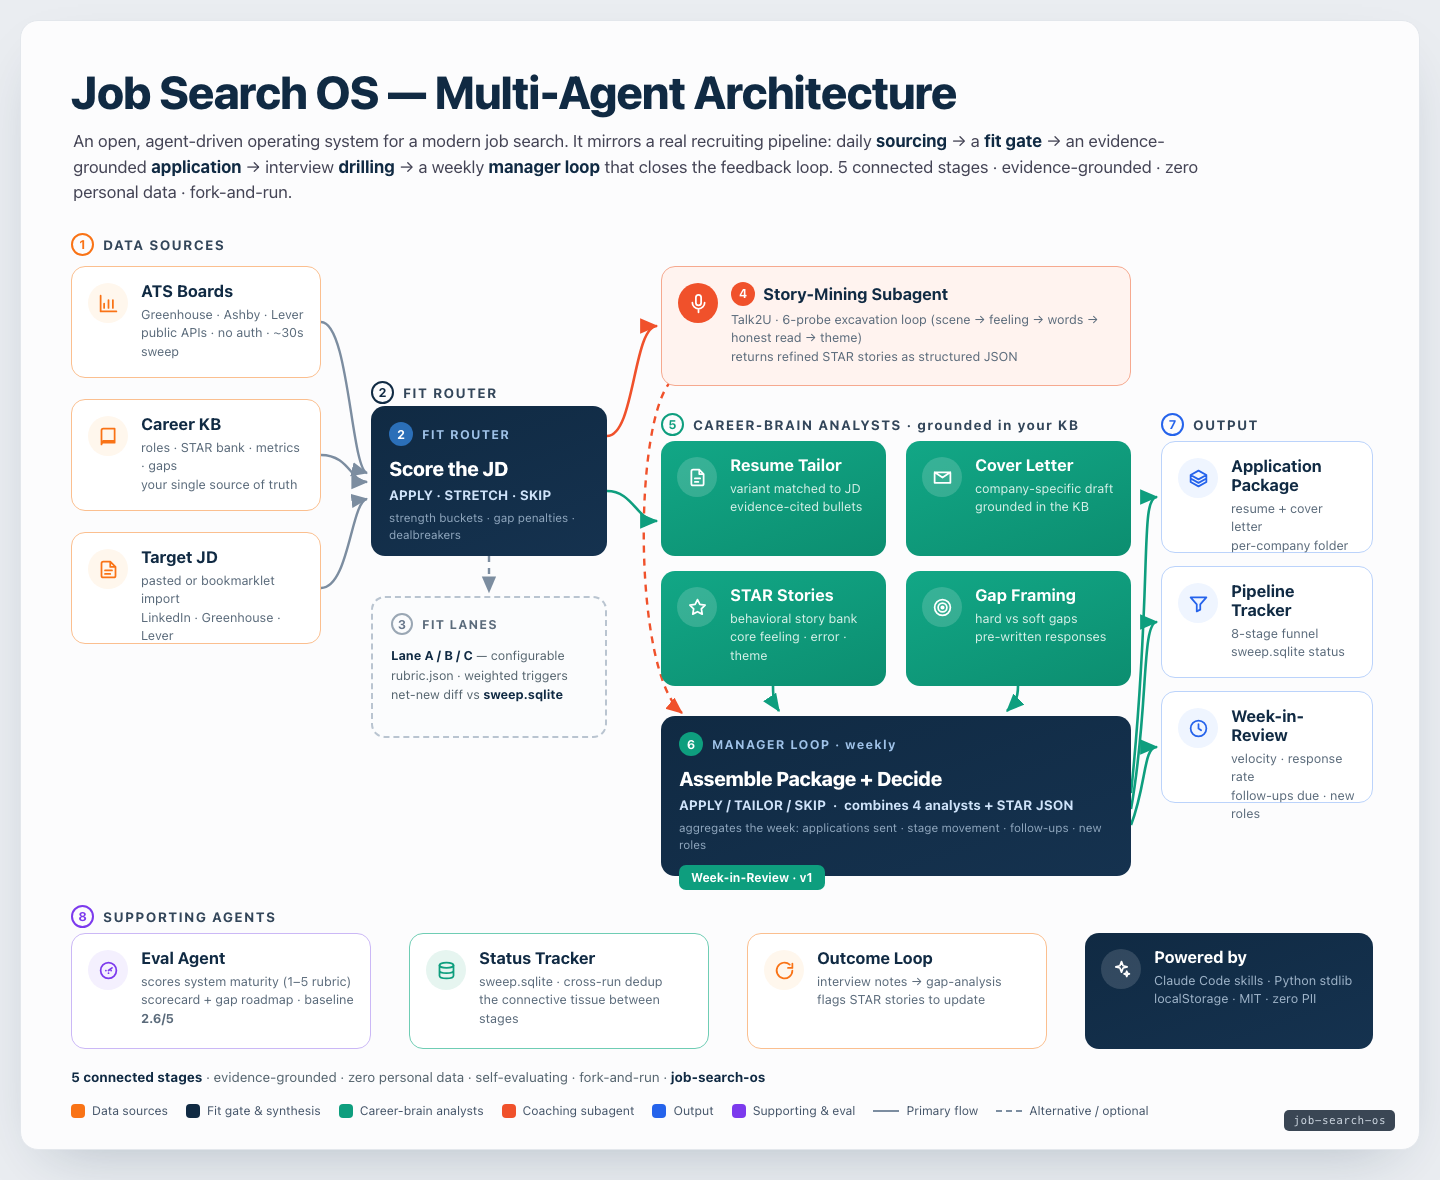
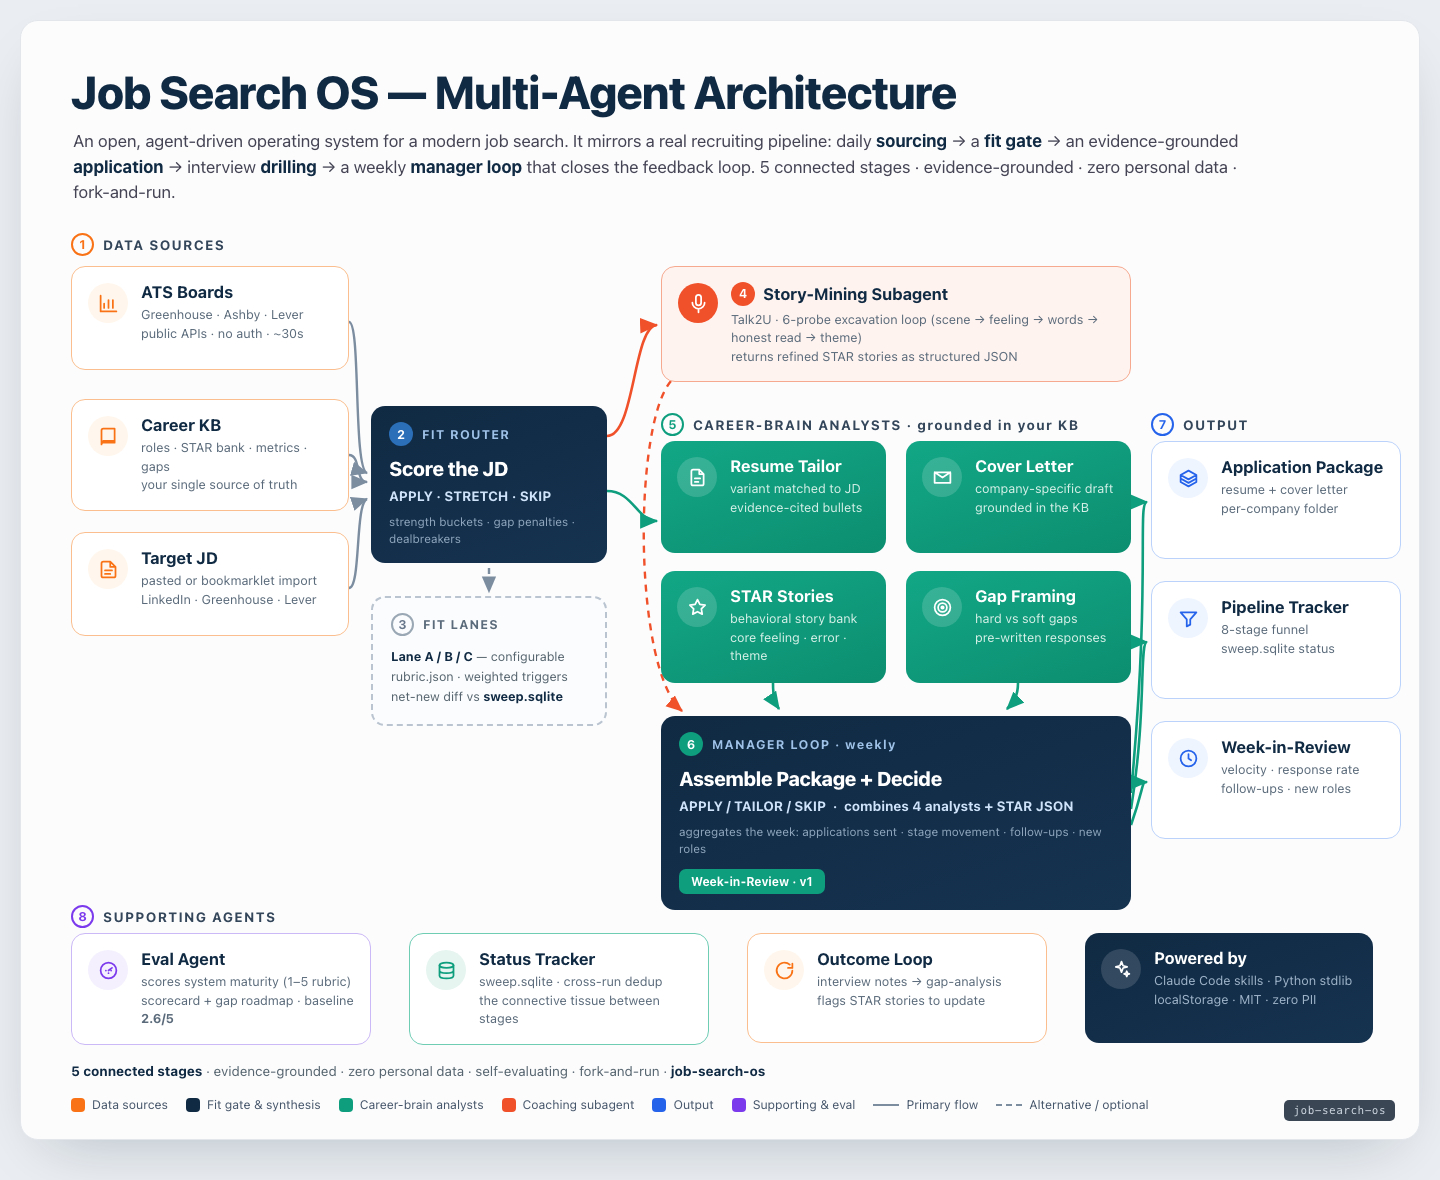
Fix infographic: min-height boxes (no text overflow), wider output column, dedupe router label

diff --git a/docs/architecture.html b/docs/architecture.html
@@ -17,29 +17,28 @@
   *{box-sizing:border-box;margin:0;padding:0}
   html,body{background:#EAEDF1;font-family:system-ui,-apple-system,"Segoe UI",Inter,Roboto,Helvetica,Arial,sans-serif;-webkit-font-smoothing:antialiased}
   .page{display:flex;justify-content:center;padding:20px 0 40px}
-  .stage{position:relative;width:1400px;height:1130px;background:#FCFCFD;border:1px solid #E3E7EC;border-radius:18px;
+  .stage{position:relative;width:1400px;height:1120px;background:#FCFCFD;border:1px solid #E3E7EC;border-radius:18px;
          box-shadow:0 24px 60px -28px rgba(16,42,67,.28);transform-origin:top center;overflow:hidden}
 
   /* header */
   .h-title{position:absolute;left:50px;top:44px;font-size:46px;font-weight:800;letter-spacing:-1px;color:var(--ink)}
-  .h-sub{position:absolute;left:52px;top:108px;width:1160px;font-size:17px;line-height:1.5;color:#445}
+  .h-sub{position:absolute;left:52px;top:108px;width:1180px;font-size:17px;line-height:1.5;color:#445}
   .h-sub b{color:var(--ink)}
 
   /* group labels */
   .glabel{position:absolute;font-size:13.5px;font-weight:700;letter-spacing:1.4px;color:#33465A;display:flex;align-items:center;gap:9px}
   .gn{display:inline-flex;align-items:center;justify-content:center;width:23px;height:23px;border-radius:50%;
-      border:2px solid;font-size:12.5px;font-weight:700;letter-spacing:0}
+      border:2px solid;font-size:12.5px;font-weight:700;letter-spacing:0;flex:0 0 auto}
   .gn.o{border-color:var(--orange);color:var(--orange)}
   .gn.n{border-color:var(--navy);color:var(--navy)}
   .gn.t{border-color:var(--teal);color:var(--teal)}
-  .gn.r{border-color:var(--red);color:var(--red)}
   .gn.b{border-color:var(--blue);color:var(--blue)}
   .gn.p{border-color:var(--purple);color:var(--purple)}
 
-  /* boxes */
+  /* boxes — min-height so text never clips the border */
   .box{position:absolute;border-radius:14px;z-index:3;padding:15px 16px;display:flex;gap:13px;align-items:flex-start}
-  .box h4{font-size:16.5px;font-weight:700;color:var(--ink);margin-bottom:5px;line-height:1.15}
-  .box p{font-size:12.7px;line-height:1.45;color:var(--muted)}
+  .box h4{font-size:16.5px;font-weight:700;color:var(--ink);margin-bottom:5px;line-height:1.18}
+  .box p{font-size:12.7px;line-height:1.45;color:var(--muted);overflow-wrap:break-word}
   .ic{flex:0 0 40px;width:40px;height:40px;border-radius:50%;display:flex;align-items:center;justify-content:center;margin-top:1px}
   .ic svg{width:21px;height:21px}
 
@@ -54,16 +53,15 @@
   .bnum{flex:0 0 24px;width:24px;height:24px;border-radius:50%;display:inline-flex;align-items:center;justify-content:center;font-size:12.5px;font-weight:700}
   .cmd .lbl{font-size:12.5px;font-weight:700;letter-spacing:1.3px;color:#9FC2E8}
   .cmd .big{font-size:20px;font-weight:800;margin-top:11px;letter-spacing:-.3px}
-  .cmd .verdict{font-size:13.5px;font-weight:700;color:#CFE3FA;margin-top:7px}
-  .cmd .fine{font-size:11.8px;color:#8FA6BD;margin-top:7px;line-height:1.4}
+  .cmd .verdict{font-size:13.5px;font-weight:700;color:#CFE3FA;margin-top:7px;line-height:1.4}
+  .cmd .fine{font-size:11.8px;color:#8FA6BD;margin-top:7px;line-height:1.45}
   .pill{display:inline-block;margin-top:12px;background:var(--teal);color:#fff;font-size:12px;font-weight:700;padding:5px 12px;border-radius:7px}
 
   /* lanes dashed */
   .lanes{background:#FBFCFD;border:2px dashed #B9C4D0;flex-direction:column;gap:0;padding:15px 18px}
   .lanes .row{display:flex;align-items:center;gap:9px}
   .lanes .lbl{font-size:12.5px;font-weight:700;letter-spacing:1.2px;color:#5B6B7B}
-  .lanes .gn{width:22px;height:22px}
-  .lanes p{font-size:12.6px;color:#56656F;line-height:1.55;margin-top:11px}
+  .lanes p{font-size:12.6px;color:#56656F;line-height:1.6;margin-top:11px}
   .lanes b{color:var(--ink)}
 
   /* story subagent (red) */
@@ -88,12 +86,12 @@
   .sup.power h4{color:#fff} .sup.power p{color:#9FB4C9}
 
   /* svg arrows */
-  .wires{position:absolute;inset:0;width:1400px;height:1130px;z-index:1;pointer-events:none}
+  .wires{position:absolute;inset:0;width:1400px;height:1120px;z-index:1;pointer-events:none}
 
   /* footer + legend */
-  .foot{position:absolute;left:50px;top:1048px;font-size:13.5px;color:#56656F}
+  .foot{position:absolute;left:50px;top:1042px;font-size:13.5px;color:#56656F}
   .foot b{color:var(--ink)}
-  .legend{position:absolute;left:50px;top:1082px;display:flex;align-items:center;gap:18px;flex-wrap:wrap;font-size:12.3px;color:#46566A}
+  .legend{position:absolute;left:50px;top:1076px;display:flex;align-items:center;gap:18px;flex-wrap:wrap;font-size:12.3px;color:#46566A}
   .legend .it{display:flex;align-items:center;gap:7px}
   .chip{width:14px;height:14px;border-radius:4px}
   .ln{width:26px;height:0;border-top:2.5px solid #7C8DA0}
@@ -111,7 +109,7 @@
     a weekly <b>manager loop</b> that closes the feedback loop. 5 connected stages · evidence-grounded · zero personal data · fork-and-run.</div>
 
   <!-- SVG wires (behind boxes) -->
-  <svg class="wires" viewBox="0 0 1400 1130" fill="none">
+  <svg class="wires" viewBox="0 0 1400 1120" fill="none">
     <defs>
       <marker id="hG" markerWidth="9" markerHeight="9" refX="6.5" refY="3" orient="auto"><path d="M0,0 L7,3 L0,6 Z" fill="#7C8DA0"/></marker>
       <marker id="hT" markerWidth="9" markerHeight="9" refX="6.5" refY="3" orient="auto"><path d="M0,0 L7,3 L0,6 Z" fill="#0E9E7E"/></marker>
@@ -119,52 +117,51 @@
     </defs>
     <g stroke="#7C8DA0" stroke-width="2.4">
       <!-- inputs -> router -->
-      <path d="M300,301 C328,301 330,448 346,452" marker-end="url(#hG)"/>
-      <path d="M300,434 C328,434 330,461 346,461" marker-end="url(#hG)"/>
-      <path d="M300,567 C328,567 330,480 346,478" marker-end="url(#hG)"/>
+      <path d="M328,301 C340,301 332,448 346,452" marker-end="url(#hG)"/>
+      <path d="M328,434 C340,434 334,461 346,461" marker-end="url(#hG)"/>
+      <path d="M328,567 C340,567 334,482 346,478" marker-end="url(#hG)"/>
       <!-- router -> lanes (dashed) -->
       <path d="M468,535 L468,571" stroke-dasharray="6 6" marker-end="url(#hG)"/>
     </g>
     <!-- router -> story subagent (orange) -->
-    <path d="M586,415 C614,415 612,305 636,305" stroke="#F0512B" stroke-width="2.6" marker-end="url(#hO)"/>
+    <path d="M586,415 C614,415 612,305 636,304" stroke="#F0512B" stroke-width="2.6" marker-end="url(#hO)"/>
     <!-- story subagent -> synthesizer (dashed orange, threads the gap) -->
-    <path d="M650,360 C612,402 612,652 661,692" stroke="#F0512B" stroke-width="2.4" stroke-dasharray="7 6" marker-end="url(#hO)"/>
+    <path d="M650,360 C612,404 612,648 661,690" stroke="#F0512B" stroke-width="2.4" stroke-dasharray="7 6" marker-end="url(#hO)"/>
     <g stroke="#0E9E7E" stroke-width="2.6">
       <!-- router -> analysts -->
       <path d="M586,470 C612,470 616,500 636,500" marker-end="url(#hT)"/>
       <!-- analysts -> synthesizer -->
-      <path d="M752,665 C752,680 754,684 758,690" marker-end="url(#hT)"/>
-      <path d="M997,665 C997,680 992,684 986,690" marker-end="url(#hT)"/>
+      <path d="M752,662 C752,676 754,682 758,688" marker-end="url(#hT)"/>
+      <path d="M997,662 C997,676 992,682 986,688" marker-end="url(#hT)"/>
       <!-- synthesizer -> outputs -->
-      <path d="M1110,772 C1132,560 1118,476 1136,476" marker-end="url(#hT)"/>
-      <path d="M1110,788 C1128,688 1120,601 1136,601" marker-end="url(#hT)"/>
-      <path d="M1110,804 C1126,762 1122,726 1136,726" marker-end="url(#hT)"/>
+      <path d="M1110,772 C1130,560 1116,481 1126,481" marker-end="url(#hT)"/>
+      <path d="M1110,788 C1126,690 1118,621 1126,621" marker-end="url(#hT)"/>
+      <path d="M1110,804 C1124,764 1120,761 1126,761" marker-end="url(#hT)"/>
     </g>
   </svg>
 
   <!-- ===== group labels ===== -->
   <div class="glabel" style="left:50px;top:212px"><span class="gn o">1</span> DATA SOURCES</div>
-  <div class="glabel" style="left:350px;top:360px"><span class="gn n">2</span> FIT ROUTER</div>
   <div class="glabel" style="left:640px;top:392px"><span class="gn t">5</span> CAREER-BRAIN ANALYSTS&nbsp;·&nbsp;grounded in your KB</div>
-  <div class="glabel" style="left:1140px;top:392px"><span class="gn b">7</span> OUTPUT</div>
+  <div class="glabel" style="left:1130px;top:392px"><span class="gn b">7</span> OUTPUT</div>
   <div class="glabel" style="left:50px;top:884px"><span class="gn p">8</span> SUPPORTING AGENTS</div>
 
   <!-- ===== 1 · INPUTS ===== -->
-  <div class="box src" style="left:50px;top:245px;width:250px;height:112px">
+  <div class="box src" style="left:50px;top:245px;width:278px;min-height:104px">
     <div class="ic"><svg viewBox="0 0 24 24" stroke="currentColor" stroke-width="2" fill="none" stroke-linecap="round"><path d="M3 21V3M3 21h18M7 17v-5M12 17V8M17 17v-9"/></svg></div>
-    <div><h4>ATS Boards</h4><p>Greenhouse · Ashby · Lever<br>public APIs · no auth · ~30s sweep</p></div>
+    <div><h4>ATS Boards</h4><p>Greenhouse · Ashby · Lever<br>public APIs · no auth · ~30s</p></div>
   </div>
-  <div class="box src" style="left:50px;top:378px;width:250px;height:112px">
+  <div class="box src" style="left:50px;top:378px;width:278px;min-height:104px">
     <div class="ic"><svg viewBox="0 0 24 24" stroke="currentColor" stroke-width="2" fill="none" stroke-linecap="round" stroke-linejoin="round"><path d="M4 5a2 2 0 012-2h13v16H6a2 2 0 00-2 2zM4 19a2 2 0 002-2h13"/></svg></div>
     <div><h4>Career KB</h4><p>roles · STAR bank · metrics · gaps<br>your single source of truth</p></div>
   </div>
-  <div class="box src" style="left:50px;top:511px;width:250px;height:112px">
+  <div class="box src" style="left:50px;top:511px;width:278px;min-height:104px">
     <div class="ic"><svg viewBox="0 0 24 24" stroke="currentColor" stroke-width="2" fill="none" stroke-linecap="round" stroke-linejoin="round"><path d="M14 3H6a2 2 0 00-2 2v14a2 2 0 002 2h12a2 2 0 002-2V9zM14 3v6h6M8 13h8M8 17h6"/></svg></div>
     <div><h4>Target JD</h4><p>pasted or bookmarklet import<br>LinkedIn · Greenhouse · Lever</p></div>
   </div>
 
   <!-- ===== 2 · FIT ROUTER ===== -->
-  <div class="box cmd" style="left:350px;top:385px;width:236px;height:150px">
+  <div class="box cmd" style="left:350px;top:385px;width:236px;min-height:150px">
     <div class="row"><span class="bnum" style="background:#2B6FB8;color:#fff">2</span><span class="lbl">FIT ROUTER</span></div>
     <div class="big">Score the JD</div>
     <div class="verdict">APPLY · STRETCH · SKIP</div>
@@ -172,37 +169,37 @@
   </div>
 
   <!-- ===== 3 · FIT LANES ===== -->
-  <div class="box lanes" style="left:350px;top:575px;width:236px;height:142px">
+  <div class="box lanes" style="left:350px;top:575px;width:236px;min-height:130px">
     <div class="row"><span class="gn n" style="border-color:#9aa7b4;color:#67768a">3</span><span class="lbl">FIT LANES</span></div>
     <p><b>Lane A / B / C</b> — configurable<br>rubric.json · weighted triggers<br>net-new diff vs <b>sweep.sqlite</b></p>
   </div>
 
   <!-- ===== 4 · STORY-MINING SUBAGENT ===== -->
-  <div class="box sub" style="left:640px;top:245px;width:470px;height:120px">
+  <div class="box sub" style="left:640px;top:245px;width:470px;min-height:116px">
     <div class="ic"><svg viewBox="0 0 24 24" stroke="currentColor" stroke-width="2" fill="none" stroke-linecap="round" stroke-linejoin="round"><path d="M12 2a3 3 0 00-3 3v6a3 3 0 006 0V5a3 3 0 00-3-3zM5 11a7 7 0 0014 0M12 18v4"/></svg></div>
     <div><h4><span class="bnum">4</span> Story-Mining Subagent</h4><p>Talk2U · 6-probe excavation loop (scene → feeling → words → honest read → theme)<br>returns refined STAR stories as structured JSON</p></div>
   </div>
 
   <!-- ===== 5 · ANALYSTS (teal) ===== -->
-  <div class="box an" style="left:640px;top:420px;width:225px;height:115px">
+  <div class="box an" style="left:640px;top:420px;width:225px;min-height:112px">
     <div class="ic"><svg viewBox="0 0 24 24" stroke="currentColor" stroke-width="2" fill="none" stroke-linecap="round" stroke-linejoin="round"><path d="M14 3H7a2 2 0 00-2 2v14a2 2 0 002 2h10a2 2 0 002-2V8zM14 3v5h5M9 13h6M9 17h4"/></svg></div>
     <div><h4>Resume Tailor</h4><p>variant matched to JD<br>evidence-cited bullets</p></div>
   </div>
-  <div class="box an" style="left:885px;top:420px;width:225px;height:115px">
+  <div class="box an" style="left:885px;top:420px;width:225px;min-height:112px">
     <div class="ic"><svg viewBox="0 0 24 24" stroke="currentColor" stroke-width="2" fill="none" stroke-linecap="round" stroke-linejoin="round"><path d="M3 6l9 6 9-6M3 6h18v12H3z"/></svg></div>
     <div><h4>Cover Letter</h4><p>company-specific draft<br>grounded in the KB</p></div>
   </div>
-  <div class="box an" style="left:640px;top:550px;width:225px;height:115px">
+  <div class="box an" style="left:640px;top:550px;width:225px;min-height:112px">
     <div class="ic"><svg viewBox="0 0 24 24" stroke="currentColor" stroke-width="2" fill="none" stroke-linejoin="round"><path d="M12 3l2.7 5.5 6 .9-4.3 4.2 1 6-5.4-2.8-5.4 2.8 1-6L3.3 9.4l6-.9z"/></svg></div>
     <div><h4>STAR Stories</h4><p>behavioral story bank<br>core feeling · error · theme</p></div>
   </div>
-  <div class="box an" style="left:885px;top:550px;width:225px;height:115px">
+  <div class="box an" style="left:885px;top:550px;width:225px;min-height:112px">
     <div class="ic"><svg viewBox="0 0 24 24" stroke="currentColor" stroke-width="2" fill="none"><circle cx="12" cy="12" r="9"/><circle cx="12" cy="12" r="5"/><circle cx="12" cy="12" r="1.4" fill="currentColor"/></svg></div>
     <div><h4>Gap Framing</h4><p>hard vs soft gaps<br>pre-written responses</p></div>
   </div>
 
   <!-- ===== 6 · SYNTHESIZER / MANAGER LOOP ===== -->
-  <div class="box cmd" style="left:640px;top:695px;width:470px;height:160px">
+  <div class="box cmd" style="left:640px;top:695px;width:470px;min-height:160px">
     <div class="row"><span class="bnum" style="background:var(--teal);color:#fff">6</span><span class="lbl">MANAGER LOOP&nbsp;·&nbsp;weekly</span></div>
     <div class="big">Assemble Package + Decide</div>
     <div class="verdict">APPLY / TAILOR / SKIP &nbsp;·&nbsp; combines 4 analysts + STAR JSON</div>
@@ -211,33 +208,33 @@
   </div>
 
   <!-- ===== 7 · OUTPUT ===== -->
-  <div class="box out" style="left:1140px;top:420px;width:212px;height:112px">
+  <div class="box out" style="left:1130px;top:420px;width:250px;min-height:118px">
     <div class="ic"><svg viewBox="0 0 24 24" stroke="currentColor" stroke-width="2" fill="none" stroke-linecap="round" stroke-linejoin="round"><path d="M21 8l-9-5-9 5 9 5 9-5zM3 8v8l9 5 9-5V8M3 12l9 5 9-5"/></svg></div>
     <div><h4>Application Package</h4><p>resume + cover letter<br>per-company folder</p></div>
   </div>
-  <div class="box out" style="left:1140px;top:545px;width:212px;height:112px">
+  <div class="box out" style="left:1130px;top:560px;width:250px;min-height:118px">
     <div class="ic"><svg viewBox="0 0 24 24" stroke="currentColor" stroke-width="2" fill="none" stroke-linecap="round" stroke-linejoin="round"><path d="M3 5h18l-7 8v6l-4 2v-8z"/></svg></div>
     <div><h4>Pipeline Tracker</h4><p>8-stage funnel<br>sweep.sqlite status</p></div>
   </div>
-  <div class="box out" style="left:1140px;top:670px;width:212px;height:112px">
+  <div class="box out" style="left:1130px;top:700px;width:250px;min-height:118px">
     <div class="ic"><svg viewBox="0 0 24 24" stroke="currentColor" stroke-width="2" fill="none" stroke-linecap="round" stroke-linejoin="round"><circle cx="12" cy="12" r="9"/><path d="M12 7v5l3 2"/></svg></div>
-    <div><h4>Week-in-Review</h4><p>velocity · response rate<br>follow-ups due · new roles</p></div>
+    <div><h4>Week-in-Review</h4><p>velocity · response rate<br>follow-ups · new roles</p></div>
   </div>
 
   <!-- ===== 8 · SUPPORTING ===== -->
-  <div class="box sup p1" style="left:50px;top:912px;width:300px;height:116px">
+  <div class="box sup p1" style="left:50px;top:912px;width:300px;min-height:110px">
     <div class="ic"><svg viewBox="0 0 24 24" stroke="currentColor" stroke-width="2" fill="none" stroke-linecap="round" stroke-linejoin="round"><path d="M12 21a9 9 0 100-18 9 9 0 000 18zM12 12l4-3M9 12h.01M15 12h.01M12 15h.01"/></svg></div>
     <div><h4>Eval Agent</h4><p>scores system maturity (1–5 rubric)<br>scorecard + gap roadmap · baseline <b>2.6/5</b></p></div>
   </div>
-  <div class="box sup t1" style="left:388px;top:912px;width:300px;height:116px">
+  <div class="box sup t1" style="left:388px;top:912px;width:300px;min-height:110px">
     <div class="ic"><svg viewBox="0 0 24 24" stroke="currentColor" stroke-width="2" fill="none"><ellipse cx="12" cy="6" rx="8" ry="3"/><path d="M4 6v12c0 1.7 3.6 3 8 3s8-1.3 8-3V6M4 12c0 1.7 3.6 3 8 3s8-1.3 8-3" stroke-linecap="round"/></svg></div>
     <div><h4>Status Tracker</h4><p>sweep.sqlite · cross-run dedup<br>the connective tissue between stages</p></div>
   </div>
-  <div class="box sup o1" style="left:726px;top:912px;width:300px;height:116px">
+  <div class="box sup o1" style="left:726px;top:912px;width:300px;min-height:110px">
     <div class="ic"><svg viewBox="0 0 24 24" stroke="currentColor" stroke-width="2" fill="none" stroke-linecap="round" stroke-linejoin="round"><path d="M21 12a9 9 0 11-3-6.7M21 4v5h-5"/></svg></div>
     <div><h4>Outcome Loop</h4><p>interview notes → gap-analysis<br>flags STAR stories to update</p></div>
   </div>
-  <div class="box sup power" style="left:1064px;top:912px;width:288px;height:116px">
+  <div class="box sup power" style="left:1064px;top:912px;width:288px;min-height:110px">
     <div class="ic"><svg viewBox="0 0 24 24" stroke="currentColor" stroke-width="2" fill="none" stroke-linecap="round" stroke-linejoin="round"><path d="M12 3l1.8 4.7L18.5 9l-4.7 1.3L12 15l-1.8-4.7L5.5 9l4.7-1.3zM18 14l.9 2.3 2.1.7-2.1.7L18 20l-.9-2.3-2.1-.7 2.1-.7z"/></svg></div>
     <div><h4>Powered by</h4><p>Claude Code skills · Python stdlib<br>localStorage · MIT · zero PII</p></div>
   </div>
@@ -263,7 +260,7 @@
     var s=document.getElementById('stage');
     var scale=Math.min(1,(window.innerWidth-32)/1400);
     s.style.transform='scale('+scale+')';
-    s.parentElement.style.height=(1130*scale+60)+'px';
+    s.parentElement.style.height=(1120*scale+60)+'px';
   }
   window.addEventListener('resize',fit); fit();
 </script>